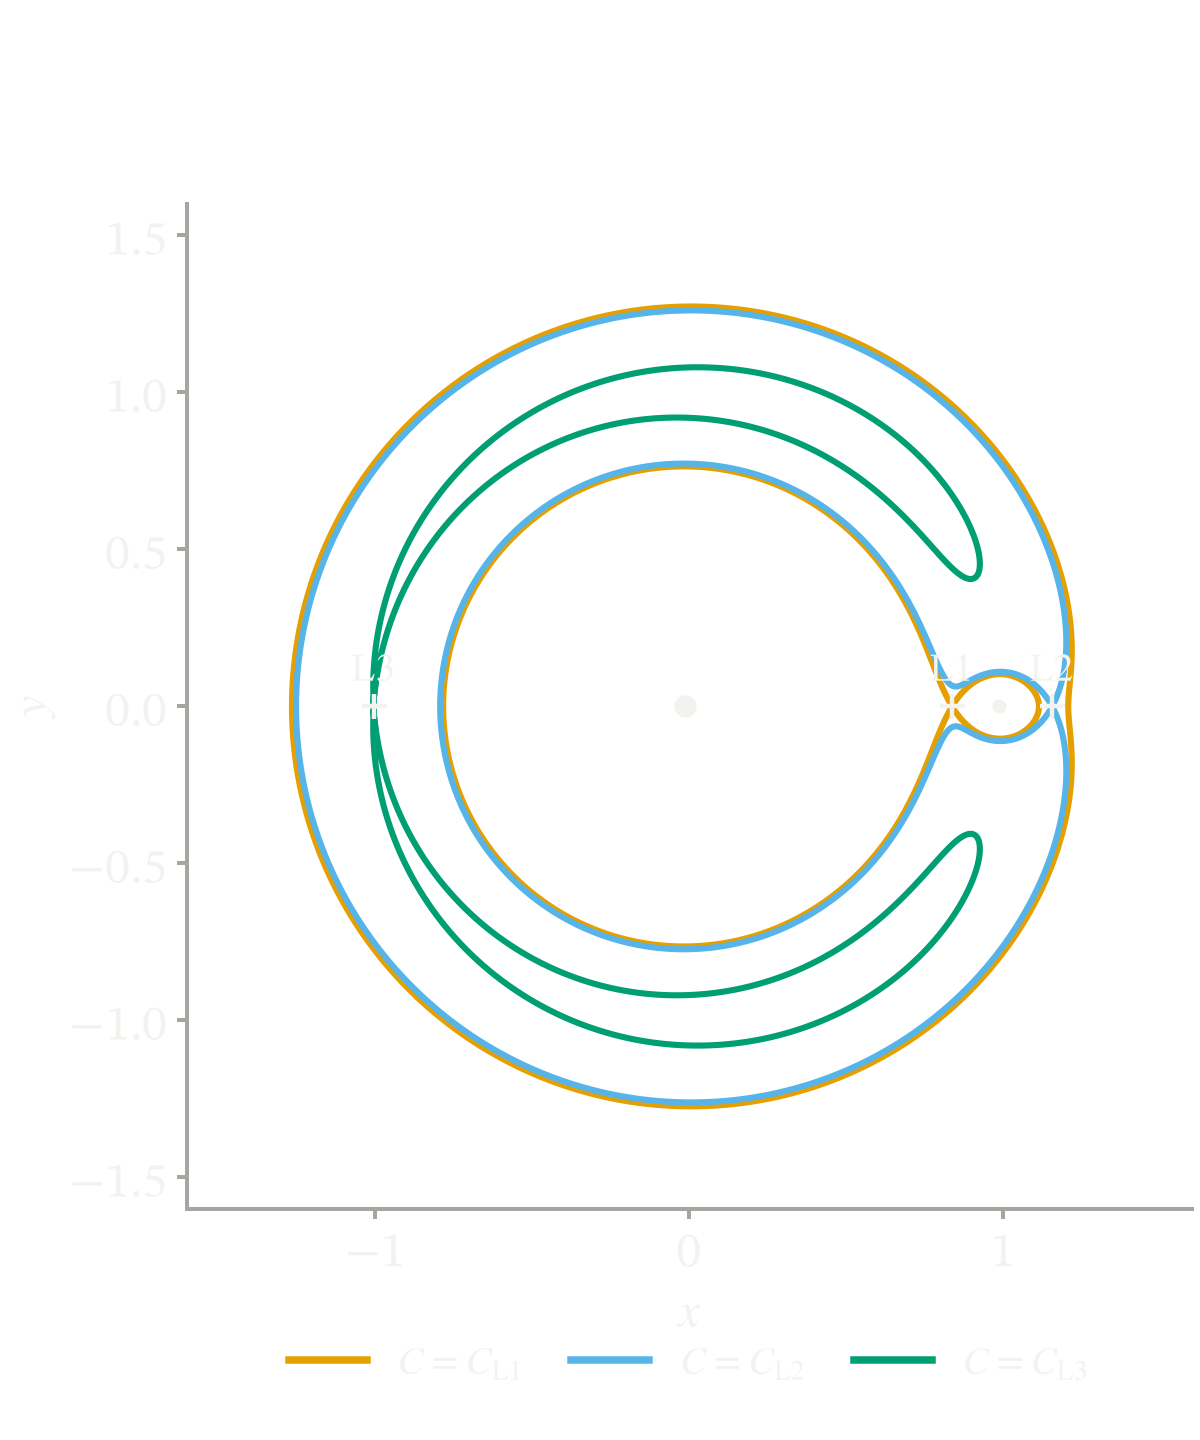
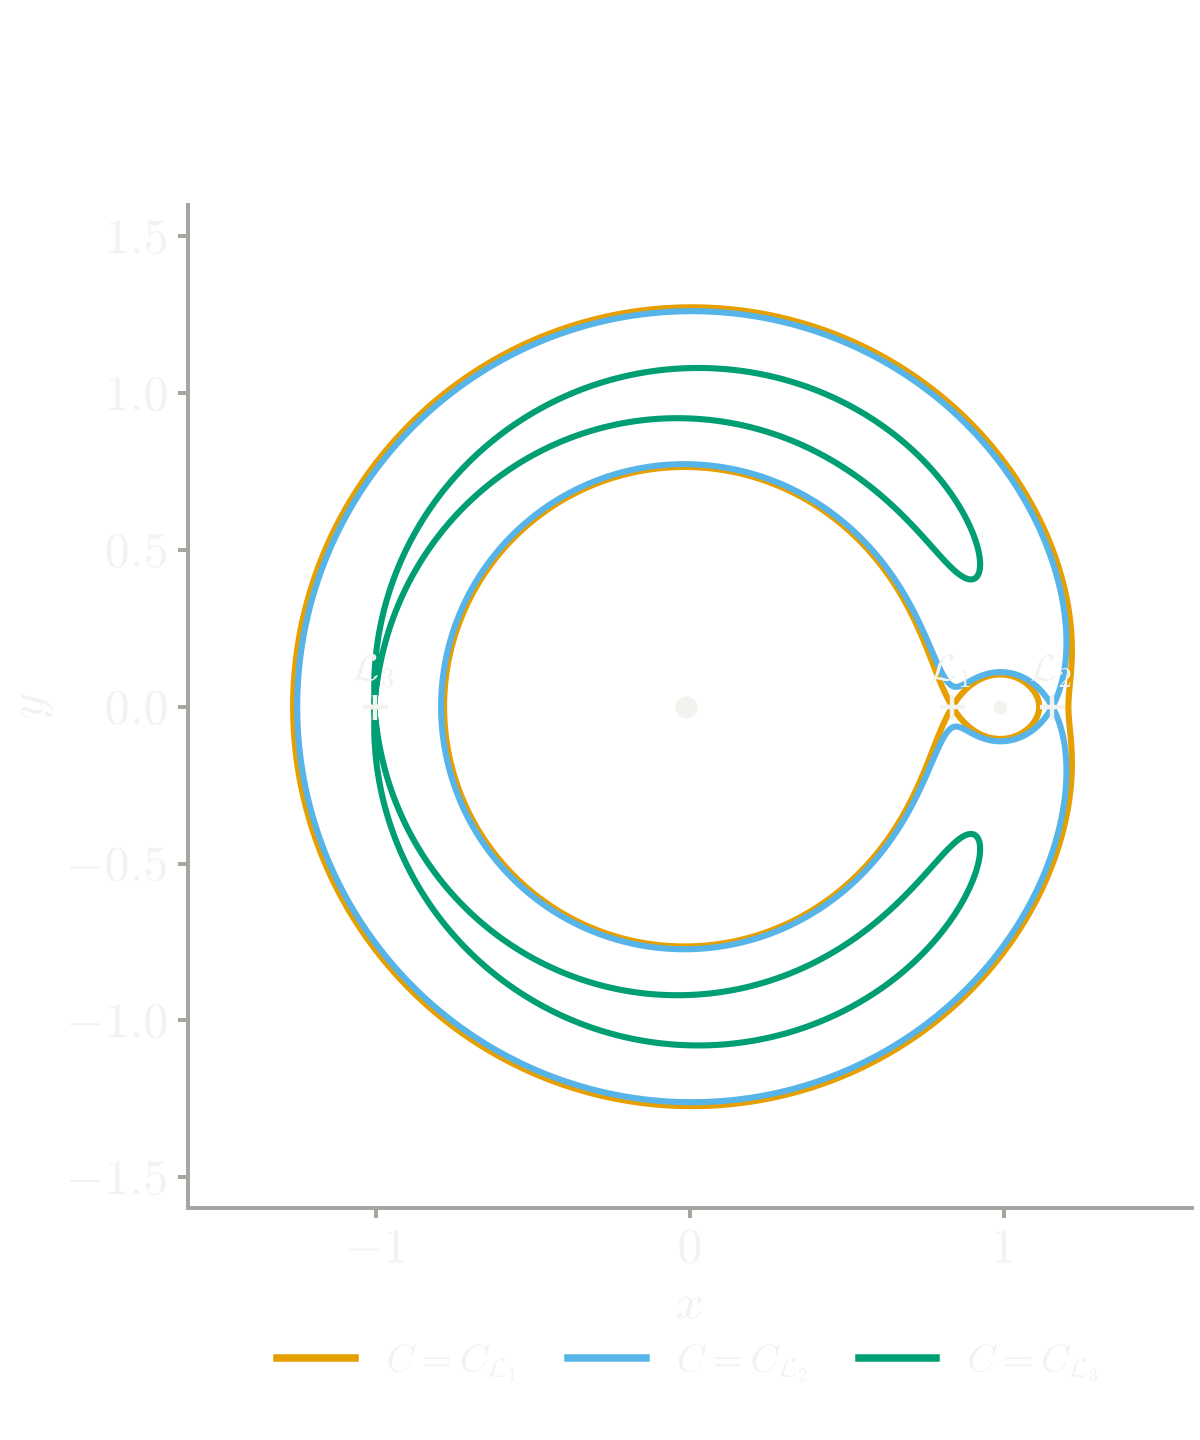
set the figures in Computer Modern with the libration points in \mathcal, as on the slides, and draw the demo figures again

diff --git a/demo/figures.py b/demo/figures.py
@@ -49,13 +49,13 @@ def zvc(style, out):
     colors = plt.rcParams["axes.prop_cycle"].by_key()["color"]
     for name, col in zip(["L1", "L2", "L3"], colors[:3]):
         ax.contour(X, Y, Z, levels=[C[name]], colors=[col], linewidths=2.2)
-        ax.plot([], [], color=col, label=f"$C = C_{{\\mathrm{{{name}}}}}$")
+        ax.plot([], [], color=col, label=f"$C = C_{{\\mathcal{{L}}_{name[1]}}}$")
     text = plt.rcParams["text.color"]
     ax.plot([-mu], [0], "o", color=text, ms=7)
     ax.plot([1 - mu], [0], "o", color=text, ms=4)
     for name, v in dict(L1=L1, L2=L2, L3=L3).items():
         ax.plot([v], [0], "+", color=text, ms=9, mew=1.6)
-        ax.annotate(f"$\\mathrm{{{name}}}$", (v, 0), xytext=(0, 9), textcoords="offset points",
+        ax.annotate(f"$\\mathcal{{L}}_{name[1]}$", (v, 0), xytext=(0, 9), textcoords="offset points",
                     ha="center", fontsize=14)
     ax.set_aspect("equal")
     ax.set_xlim(-1.6, 1.6)
@@ -71,7 +71,8 @@ for mode in ("dark", "light"):
     zvc(f"{root}/styles/beeson-{mode}.mplstyle", f"{root}/demo/figure-{mode}.png")
 
 plt.style.use("default")
-plt.rcParams.update({"font.family": "serif", "font.serif": ["STIXGeneral"], "mathtext.fontset": "stix",
+plt.rcParams.update({"font.family": "serif", "font.serif": ["cmr10"], "mathtext.fontset": "cm",
+                     "axes.formatter.use_mathtext": True,
                      "font.size": 12, "savefig.dpi": 200})
 fig, ax = plt.subplots(figsize=(7, 4.2), constrained_layout=True)
 xs = np.linspace(-1.6, 1.6, 4000)
@@ -82,11 +83,11 @@ U[np.abs(xs - 1 + mu) < 0.012] = np.nan
 ax.plot(xs, U, color="k", lw=1.2)
 for name, v in dict(L1=L1, L2=L2, L3=L3).items():
     ax.plot([v], [-C[name]], "o", color="k", ms=4)
-    ax.annotate(f"$\\mathrm{{{name}}}$", (v, -C[name]), xytext=(0, 7), textcoords="offset points",
+    ax.annotate(f"$\\mathcal{{L}}_{name[1]}$", (v, -C[name]), xytext=(0, 7), textcoords="offset points",
                 ha="center")
 ax.set_ylim(-3.6, -2.95)
 ax.set_xlim(-1.6, 1.6)
-ax.set_xlabel("$x$ (rotating frame, Earth–Moon units)")
+ax.set_xlabel("$x$ (rotating frame, nondimensional)")
 ax.set_ylabel("$-2\\,\\Omega(x, 0)$")
 ax.set_title("Pseudo-potential along the $x$ axis, $\\mu = 0.01215$")
 ax.grid(True, lw=0.4, color="0.85")
